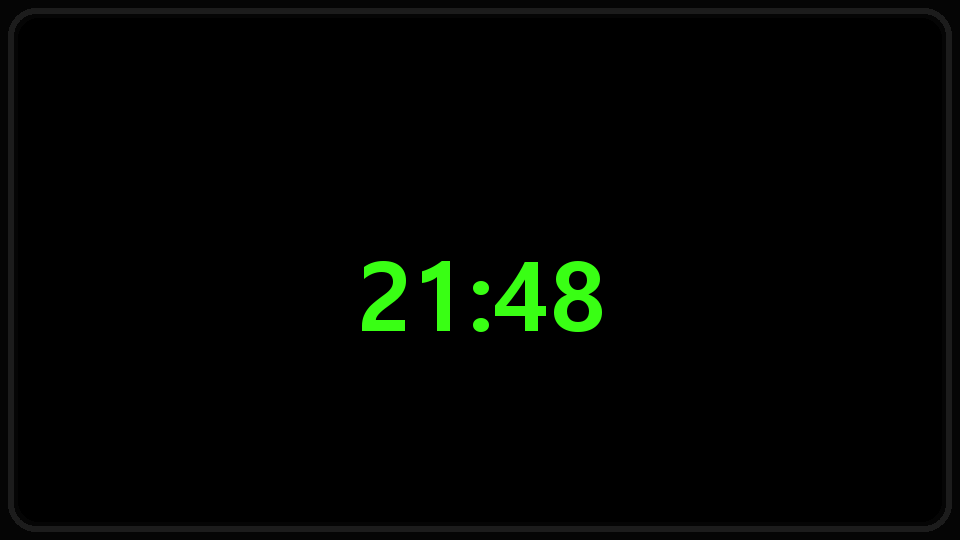
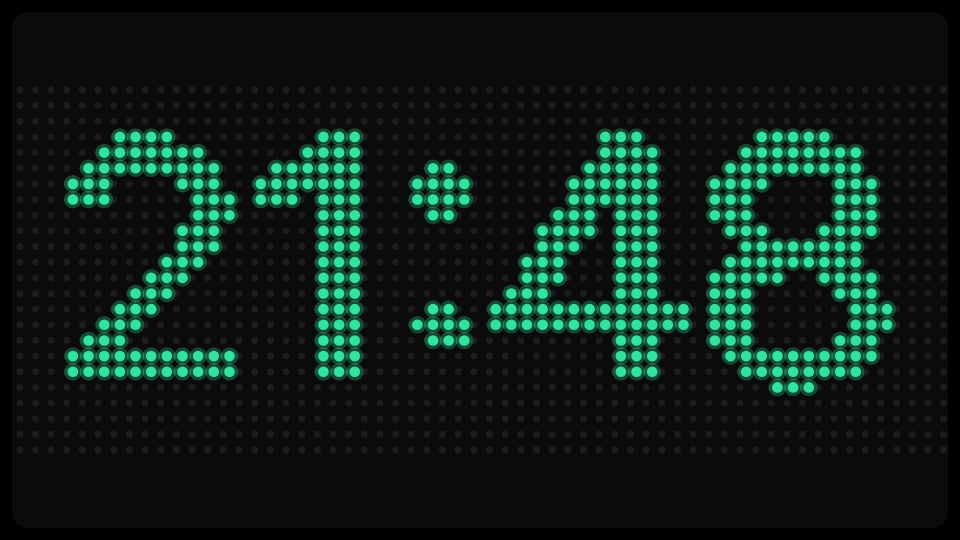
Replace marketing LED frames with real app raster screenshots.

Changed region(s): [[0.0, 0.0593, 1.0, 0.9481], [0.0312, 0.9778, 0.9688, 1.0], [0.0312, 0.0, 0.9688, 0.0296]]

diff --git a/i18n.js b/i18n.js
@@ -83,18 +83,18 @@ window.HELLO_I18N = {
     "clockTitle": "시계·디데이·타이머",
     "clockKicker": "문구 대신 시간을 크게",
     "clockBody": "전광판에 현재 시각, 디데이 카운트다운, 타이머를 띄워 행사·매장·대기 시간을 멀리서도 확인할 수 있습니다.",
-    "clockCaption": "앱 화면 예시: 가로 전광판에 표시된 시계",
+    "clockCaption": "앱 화면: 가로 전광판에 표시된 시계",
     "photoTitle": "사진을 도트 전광판으로",
     "photoKicker": "이미지 도트 변환",
     "photoBody": "갤러리 사진을 기기 안에서 도트 패턴으로 바꿔 전광판에 띄웁니다. 서버로 사진을 올리지 않습니다.",
-    "photoCaption": "앱 화면 예시: 사진을 도트 패턴으로 변환한 전광판",
+    "photoCaption": "앱 화면: 사진을 도트 패턴으로 변환한 전광판",
     "favTitle": "즐겨찾기 문구",
     "favKicker": "자주 쓰는 문장을 저장",
     "favBody": "응원·세일·환영 문구를 기기 안에 저장해 두고, 필요할 때 바로 전광판에 불러옵니다.",
     "faq3q": "지금 어디서 받을 수 있나요?",
     "faq3a": "스토어 상세가 아직 공개되지 않았습니다.<br>출시 소식은 <a class=\"underline\" href=\"mailto:helloled@yodams.com\">helloled@yodams.com</a>으로 문의해 주세요.",
     "operator": "운영: HELLO LED 운영 · 고객지원: HELLO LED 고객지원",
-    "customCaption": "앱 화면 예시: 색·폰트를 맞춘 가로 전광판 문구",
+    "customCaption": "앱 화면: 색·폰트를 맞춘 가로 전광판 문구",
     "updatedOn": "페이지 업데이트: 2026-09-23"
   },
   "en": {
@@ -181,18 +181,18 @@ window.HELLO_I18N = {
     "clockTitle": "Clock, countdown, and timer",
     "clockKicker": "Show time instead of text",
     "clockBody": "Put the current time, a countdown, or a timer on the board so people can read it from across a venue or shop.",
-    "clockCaption": "App screen example: clock on the landscape board",
+    "clockCaption": "App screen: clock on the landscape board",
     "photoTitle": "Photo to dot board",
     "photoKicker": "On-device image conversion",
     "photoBody": "Turn a gallery photo into a dot pattern on the board. Photos stay on the device and are not uploaded.",
-    "photoCaption": "App screen example: photo converted to dots",
+    "photoCaption": "App screen: photo converted to dots",
     "favTitle": "Favorite lines",
     "favKicker": "Save phrases you reuse",
     "favBody": "Save cheers, sales, and welcome lines on the device, then load them onto the board when you need them.",
     "faq3q": "Where can I download it now?",
     "faq3a": "The store listing is not public yet.<br>Email <a class=\"underline\" href=\"mailto:helloled@yodams.com\">helloled@yodams.com</a> for launch updates.",
     "operator": "Operated by HELLO LED · Support: HELLO LED customer support",
-    "customCaption": "App screen example: landscape board text with color and typeface",
+    "customCaption": "App screen: landscape board text with color and typeface",
     "updatedOn": "Page updated: 2026-09-23"
   },
   "ja": {
@@ -279,18 +279,18 @@ window.HELLO_I18N = {
     "clockTitle": "時計・カウントダウン・タイマー",
     "clockKicker": "文字の代わりに時間を大きく",
     "clockBody": "現在時刻、カウントダウン、タイマーを電光掲示板に表示し、会場や店舗の向こうからも確認できます。",
-    "clockCaption": "アプリ画面例: 横向き掲示板の時計",
+    "clockCaption": "アプリ画面: 横向き掲示板の時計",
     "photoTitle": "写真をドット電光板に",
     "photoKicker": "画像のドット変換",
     "photoBody": "ギャラリーの写真を端末内でドット模様に変換して表示します。サーバーへ写真は送りません。",
-    "photoCaption": "アプリ画面例: 写真をドット化した電光板",
+    "photoCaption": "アプリ画面: 写真をドット化した電光板",
     "favTitle": "お気に入り文言",
     "favKicker": "よく使う文を保存",
     "favBody": "応援・セール・歓迎の文を端末に保存し、必要なときにすぐ掲示板へ呼び出せます。",
     "faq3q": "今どこで入手できますか？",
     "faq3a": "ストア詳細はまだ公開されていません。<br>公開情報は <a class=\"underline\" href=\"mailto:helloled@yodams.com\">helloled@yodams.com</a> までお問い合わせください。",
     "operator": "運営: HELLO LED運営 · サポート: HELLO LEDカスタマーサポート",
-    "customCaption": "アプリ画面例: 色・書体を合わせた横向き電光板の文言",
+    "customCaption": "アプリ画面: 色・書体を合わせた横向き電光板の文言",
     "updatedOn": "ページ更新: 2026-09-23"
   },
   "zh": {
@@ -377,18 +377,18 @@ window.HELLO_I18N = {
     "clockTitle": "时钟、倒计时与计时器",
     "clockKicker": "用大号时间代替文字",
     "clockBody": "在灯牌上显示当前时间、倒计时或计时器，方便在活动现场或店铺对面也能看清。",
-    "clockCaption": "应用界面示例：横屏灯牌上的时钟",
+    "clockCaption": "应用界面：横屏灯牌上的时钟",
     "photoTitle": "照片转点阵灯牌",
     "photoKicker": "设备内图像转换",
     "photoBody": "将相册照片在设备内转为点阵图案并显示在灯牌上，不会上传到服务器。",
-    "photoCaption": "应用界面示例：照片转为点阵灯牌",
+    "photoCaption": "应用界面：照片转为点阵灯牌",
     "favTitle": "收藏常用文案",
     "favKicker": "保存常写的句子",
     "favBody": "把应援、促销、欢迎文案保存在设备中，需要时立刻调到灯牌上。",
     "faq3q": "现在可以在哪里下载？",
     "faq3a": "商店详情页尚未公开。<br>上线消息请发邮件至 <a class=\"underline\" href=\"mailto:helloled@yodams.com\">helloled@yodams.com</a>。",
     "operator": "运营：HELLO LED 运营 · 客服：HELLO LED 客户支持",
-    "customCaption": "应用界面示例：配色与字体调整后的横屏灯牌文案",
+    "customCaption": "应用界面：配色与字体调整后的横屏灯牌文案",
     "updatedOn": "页面更新：2026-09-23"
   },
   "es": {
@@ -475,18 +475,18 @@ window.HELLO_I18N = {
     "clockTitle": "Reloj, cuenta atrás y temporizador",
     "clockKicker": "Muestra la hora en grande",
     "clockBody": "Pon la hora actual, una cuenta atrás o un temporizador en el panel para leerlo desde lejos en un local o un evento.",
-    "clockCaption": "Ejemplo de pantalla: reloj en el panel horizontal",
+    "clockCaption": "Pantalla de la app: reloj en el panel horizontal",
     "photoTitle": "Foto a panel de puntos",
     "photoKicker": "Conversión de imagen en el dispositivo",
     "photoBody": "Convierte una foto de la galería en un patrón de puntos en el panel. La foto no se sube a un servidor.",
-    "photoCaption": "Ejemplo de pantalla: foto convertida en puntos",
+    "photoCaption": "Pantalla de la app: foto convertida en puntos",
     "favTitle": "Frases favoritas",
     "favKicker": "Guarda frases que reutilizas",
     "favBody": "Guarda animaciones, ofertas y bienvenidas en el dispositivo y cárgalas en el panel cuando las necesites.",
     "faq3q": "¿Dónde puedo descargarla ahora?",
     "faq3a": "La ficha de la tienda aún no es pública.<br>Escribe a <a class=\"underline\" href=\"mailto:helloled@yodams.com\">helloled@yodams.com</a> para novedades del lanzamiento.",
     "operator": "Operado por HELLO LED · Soporte: atención al cliente de HELLO LED",
-    "customCaption": "Ejemplo de pantalla: texto del panel horizontal con color y tipografía",
+    "customCaption": "Pantalla de la app: texto del panel horizontal con color y tipografía",
     "updatedOn": "Página actualizada: 2026-09-23"
   },
   "es_419": {
@@ -573,21 +573,22 @@ window.HELLO_I18N = {
     "clockTitle": "Reloj, cuenta regresiva y temporizador",
     "clockKicker": "Muestra la hora en grande",
     "clockBody": "Pon la hora actual, una cuenta regresiva o un temporizador en el panel para leerlo desde lejos en un local o un evento.",
-    "clockCaption": "Ejemplo de pantalla: reloj en el panel horizontal",
+    "clockCaption": "Pantalla de la app: reloj en el panel horizontal",
     "photoTitle": "Foto a panel de puntos",
     "photoKicker": "Conversión de imagen en el dispositivo",
     "photoBody": "Convierte una foto de la galería en un patrón de puntos en el panel. La foto no se sube a un servidor.",
-    "photoCaption": "Ejemplo de pantalla: foto convertida en puntos",
+    "photoCaption": "Pantalla de la app: foto convertida en puntos",
     "favTitle": "Frases favoritas",
     "favKicker": "Guarda frases que reutilizas",
     "favBody": "Guarda porras, ofertas y bienvenidas en el dispositivo y cárgalas en el panel cuando las necesites.",
     "faq3q": "¿Dónde puedo descargarla ahora?",
     "faq3a": "La ficha de la tienda aún no es pública.<br>Escribe a <a class=\"underline\" href=\"mailto:helloled@yodams.com\">helloled@yodams.com</a> para novedades del lanzamiento.",
     "operator": "Operado por HELLO LED · Soporte: atención al cliente de HELLO LED",
-    "customCaption": "Ejemplo de pantalla: texto del panel horizontal con color y tipografía",
+    "customCaption": "Pantalla de la app: texto del panel horizontal con color y tipografía",
     "updatedOn": "Página actualizada: 2026-09-23"
   }
 };
+
 
 
 (function () {

diff --git a/index.html b/index.html
@@ -318,7 +318,7 @@
                 decoding="async"
                 alt="HELLO LED 문구 전광판 화면 예시: 분홍 네온으로 응원 문구 표시"
               >
-              <figcaption id="custom-caption" class="mt-2 text-xs text-muted" data-i18n="customCaption">앱 화면 예시: 색·폰트를 맞춘 가로 전광판 문구</figcaption>
+              <figcaption id="custom-caption" class="mt-2 text-xs text-muted" data-i18n="customCaption">앱 화면: 색·폰트를 맞춘 가로 전광판 문구</figcaption>
             </figure>
             <div class="mt-6 flex gap-2.5" aria-hidden="true">
                 <span class="h-8 w-8 rounded-full bg-neonRed shadow-sm"></span>
@@ -352,7 +352,7 @@
                 decoding="async"
                 alt="HELLO LED 시계 전광판 화면 예시: 가로 모드에 21:48 표시"
               >
-              <figcaption id="clock-caption" class="mt-2 text-xs text-muted" data-i18n="clockCaption">앱 화면 예시: 가로 전광판에 표시된 시계</figcaption>
+              <figcaption id="clock-caption" class="mt-2 text-xs text-muted" data-i18n="clockCaption">앱 화면: 가로 전광판에 표시된 시계</figcaption>
             </figure>
           </article>
 
@@ -370,7 +370,7 @@
                 decoding="async"
                 alt="HELLO LED 사진 도트 변환 화면 예시: 하트 형태 도트 전광판"
               >
-              <figcaption id="photo-caption" class="mt-2 text-xs text-muted" data-i18n="photoCaption">앱 화면 예시: 사진을 도트 패턴으로 변환한 전광판</figcaption>
+              <figcaption id="photo-caption" class="mt-2 text-xs text-muted" data-i18n="photoCaption">앱 화면: 사진을 도트 패턴으로 변환한 전광판</figcaption>
             </figure>
           </article>
 
